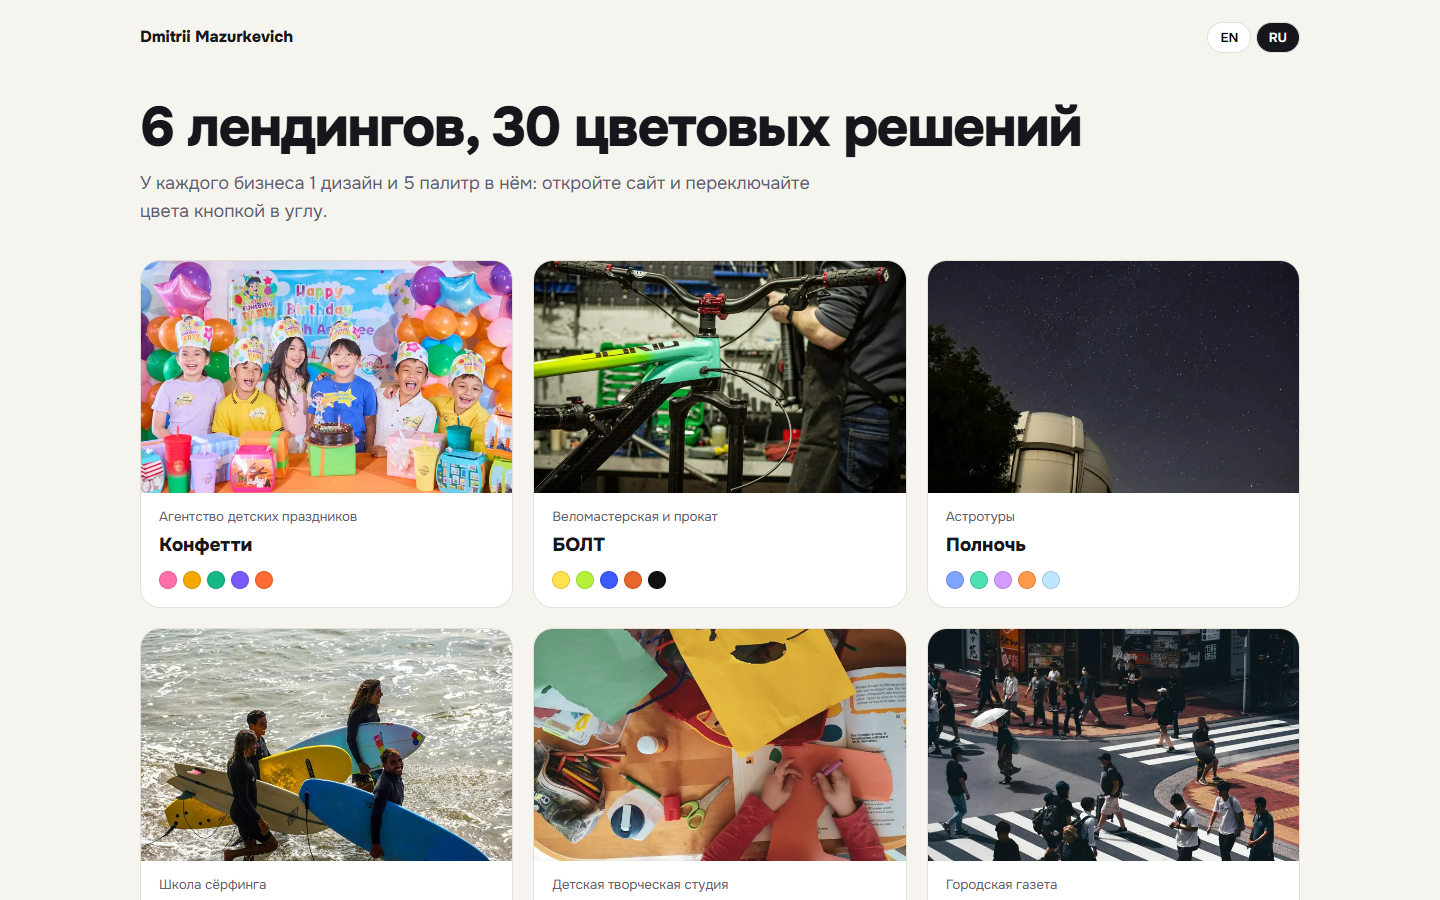
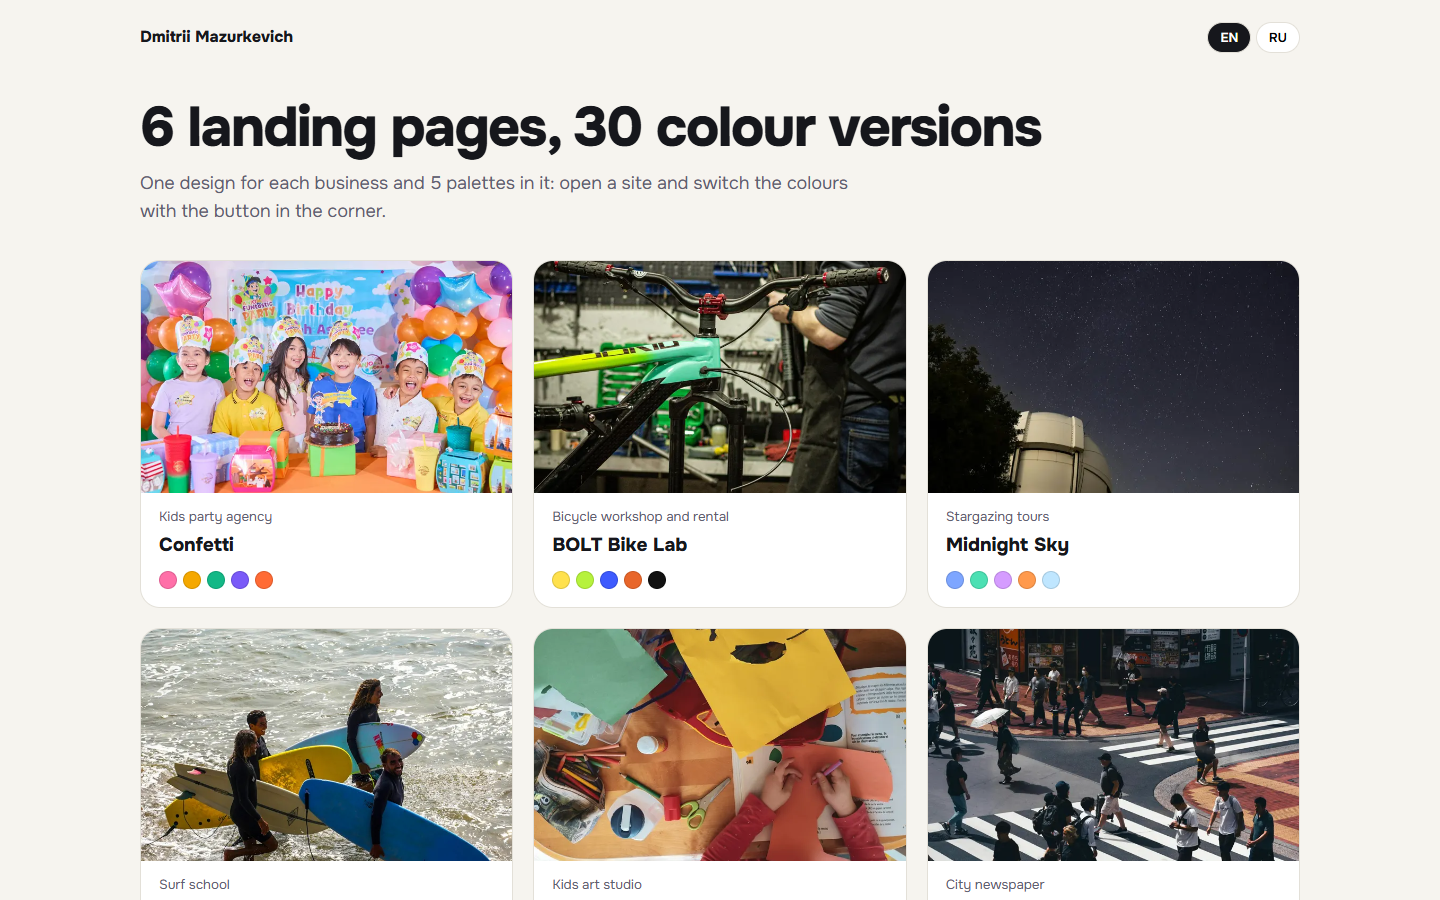
Site files, README and preview

diff --git a/assets/landing.js b/assets/landing.js
@@ -19,7 +19,7 @@
     store.set('lang', l);
   }
   document.querySelectorAll('[data-lang]').forEach(function (b) { b.addEventListener('click', function () { setLang(b.getAttribute('data-lang')); }); });
-  var lang = store.get('lang') || (/^ru/i.test(navigator.language || '') ? 'ru' : 'en');
+  var lang = store.get('lang') || ('en');
   var q = location.search.match(/[?&]lang=(en|ru)/); if (q) lang = q[1];
   setLang(lang);
 
